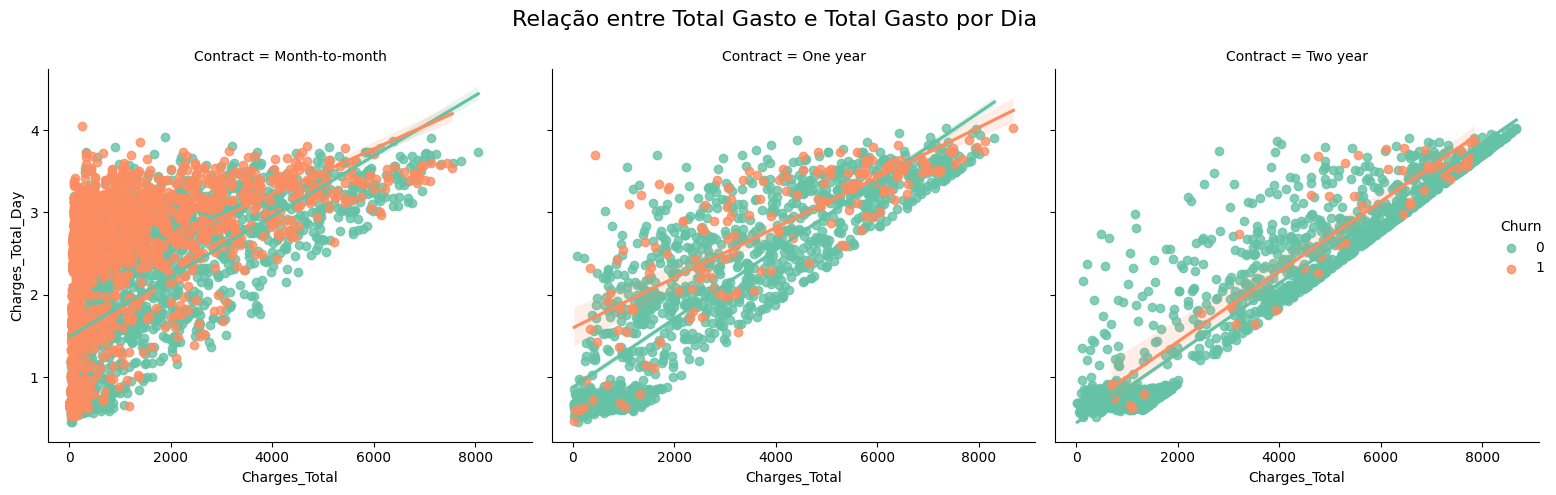
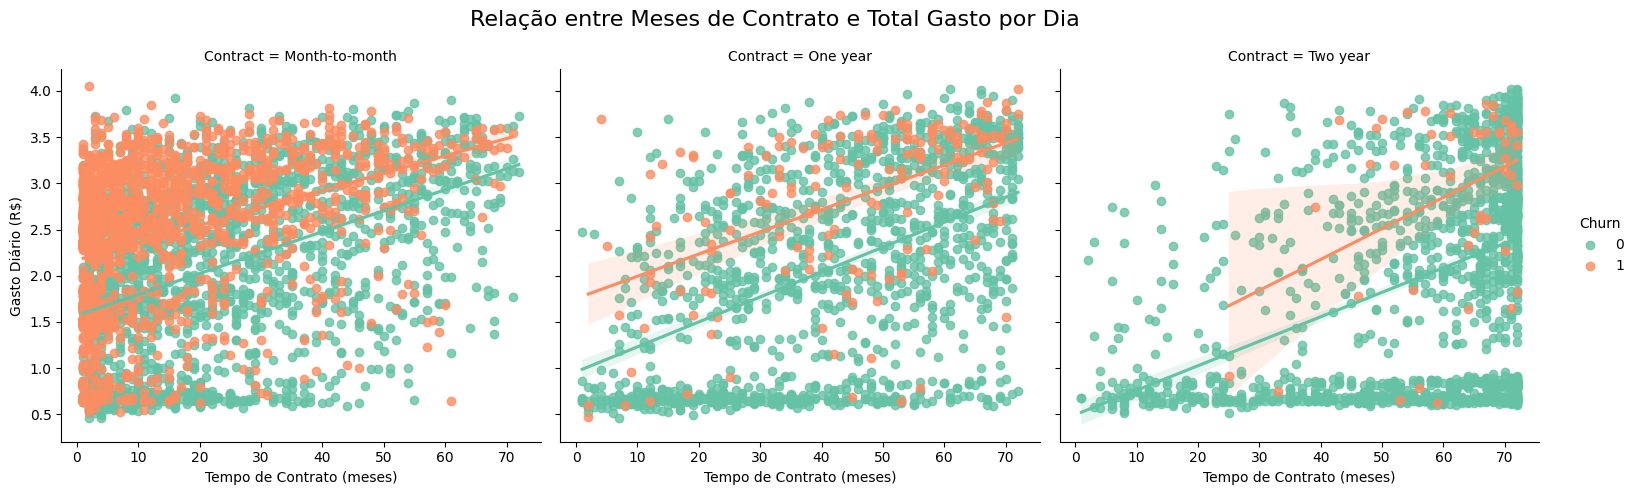
consertando gráfico

diff --git a/analise.py b/analise.py
@@ -59,11 +59,14 @@ plt.tight_layout()
 plt.show()
 # %%
 
-g = sns.lmplot(df, x='Charges_Total', y ='Charges_Total_Day',hue='Churn',col='Contract',
+g = sns.lmplot(df, x='tenure', y ='Charges_Total_Day',hue='Churn',col='Contract',
                col_order=["Month-to-month","One year","Two year"], palette='Set2')
 
-g.figure.suptitle("Relação entre Total Gasto e Total Gasto por Dia",fontsize=16)
+g.figure.suptitle("Relação entre Meses de Contrato e Total Gasto por Dia",fontsize=16)
 g.figure.subplots_adjust(top=0.85)
+g.set_axis_labels("Tempo de Contrato (meses)", "Gasto Diário (R$)")
+g._legend.set_bbox_to_anchor((1.05, 0.5))
+g._legend.set_frame_on(False)
 
 plt.tight_layout()
 plt.show()
